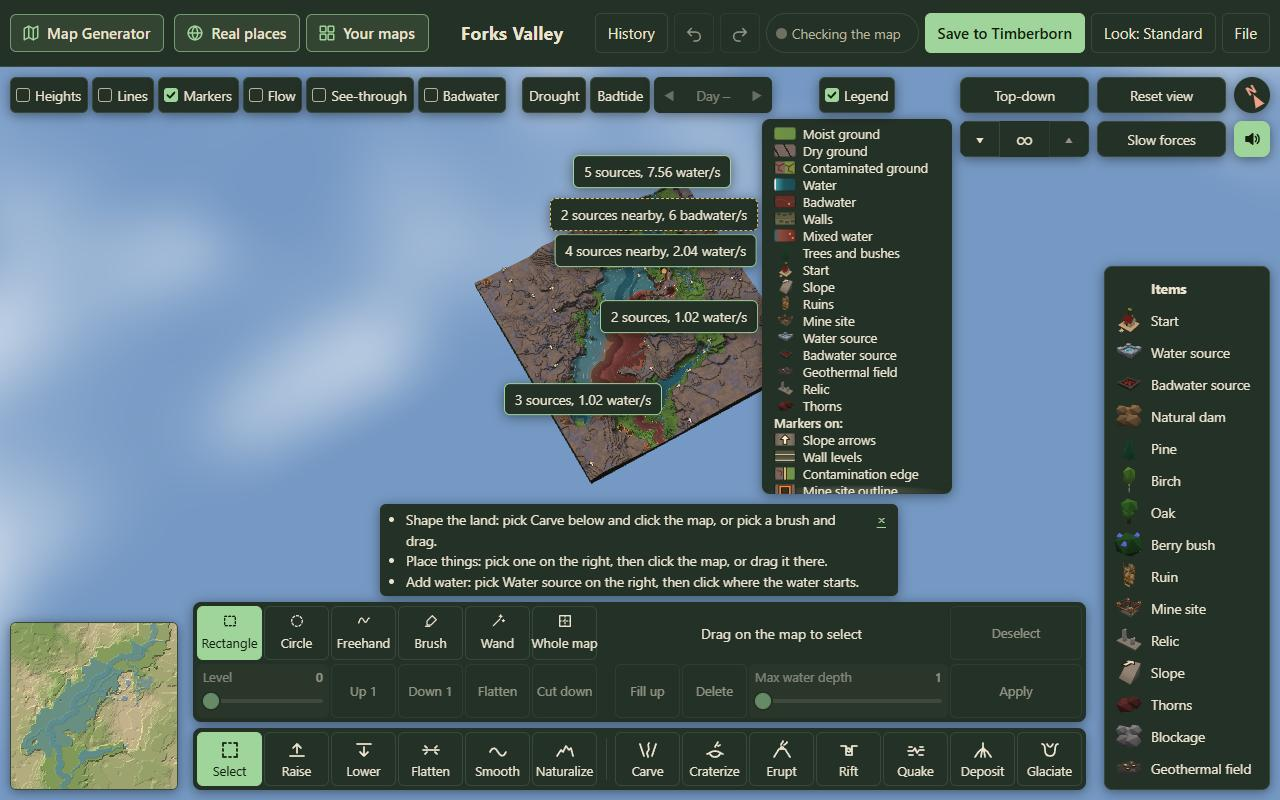
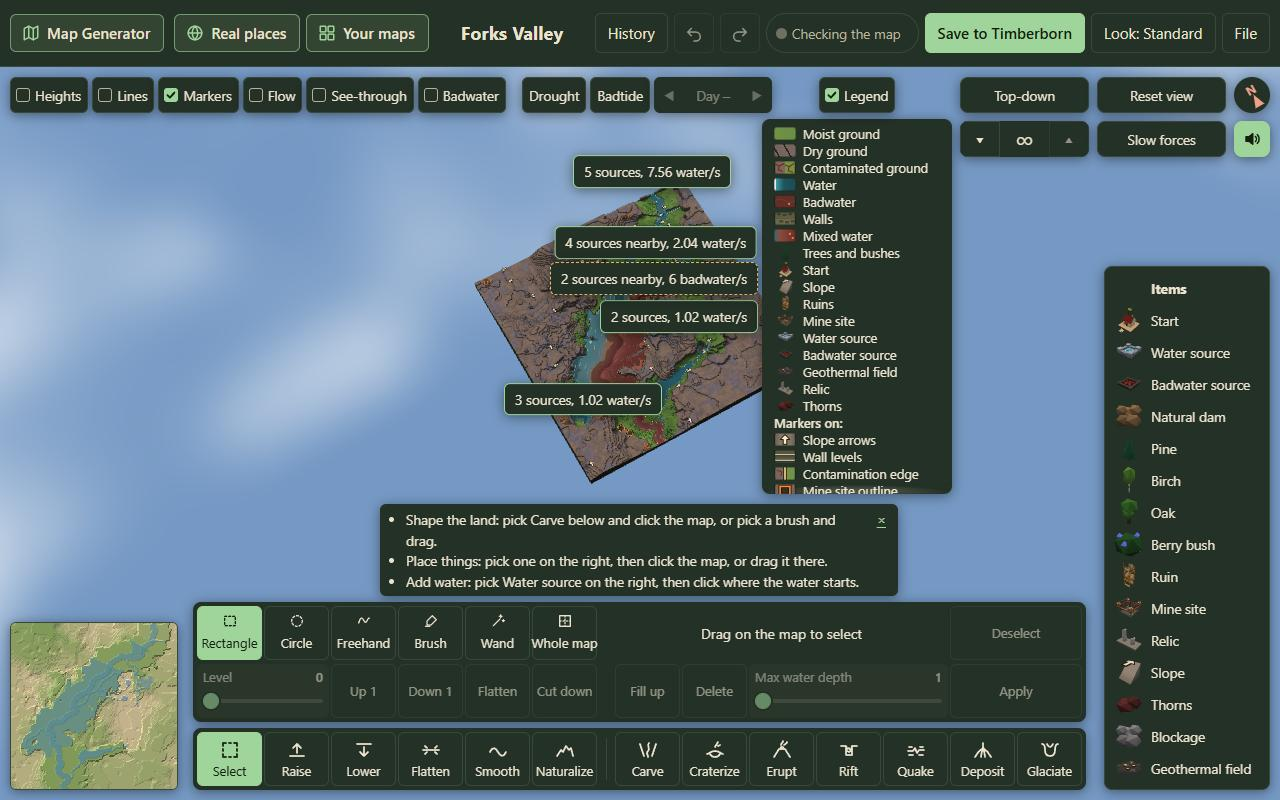
Polish: labels return to their own spot, and no leader runs behind a label
- A label tries its own spot first, then last frame's, then a search; a moved label returns once its own spot is
  clear by a little more than it needs. A carried merge is kept only while the merged-in label's own spot is blocked.
- A moved spot is never used if its leader would cross another label or its line, or end under one (it merges instead).

Changed region(s): [[0.4062, 0.2188, 0.5938, 0.375]]

diff --git a/src/editor/sources/labelLayout.ts b/src/editor/sources/labelLayout.ts
@@ -81,6 +81,37 @@ const NEARBY = 160;
 /** Moves tried one after another when a label is in the way of something. */
 const DEPTH = 4;
 
+type Seg = [number, number, number, number];
+
+/** Whether a line crosses a box. */
+function crosses(s: Seg, r: Rect): boolean {
+  let t0 = 0;
+  let t1 = 1;
+  const dx = s[2] - s[0];
+  const dy = s[3] - s[1];
+  for (const [p, q] of [
+    [-dx, s[0] - r.x],
+    [dx, r.x + r.w - s[0]],
+    [-dy, s[1] - r.y],
+    [dy, r.y + r.h - s[1]],
+  ]) {
+    if (p === 0) {
+      if (q < 0) return false;
+    } else {
+      const t = q / p;
+      if (p < 0) t0 = Math.max(t0, t);
+      else t1 = Math.min(t1, t);
+    }
+  }
+  return t0 <= t1;
+}
+
+/** Whether two lines cross. */
+function segs(a: Seg, b: Seg): boolean {
+  const o = (x1: number, y1: number, x2: number, y2: number, x3: number, y3: number) => Math.sign((x2 - x1) * (y3 - y1) - (y2 - y1) * (x3 - x1));
+  return o(a[0], a[1], a[2], a[3], b[0], b[1]) !== o(a[0], a[1], a[2], a[3], b[2], b[3]) && o(b[0], b[1], b[2], b[3], a[0], a[1]) !== o(b[0], b[1], b[2], b[3], a[2], a[3]);
+}
+
 const rounded = (n: number) => Math.round(n * 100) / 100;
 
 function hits(a: Rect, b: Rect, gap: number): boolean {
@@ -119,12 +150,38 @@ function absorb(keep: Item, victim: Item, byId: Map<number, Item>) {
 
 /** Lay the labels out. The same input always gives the same output. */
 export function layoutLabels(labels: readonly LabelIn[], env: LayoutEnv): LabelOut[] {
+  // the merges of the last frame (who went into whom) stay while they still hold: the two are alike and near, and the
+  // merged-in label's own spot is still blocked (a crowd that has cleared lets it go back to its own spot)
+  const carried = new Map<number, number>();
+  const first = new Map(labels.map((l) => [l.id, l]));
+  for (const l of labels) {
+    const keep = l.prev?.into != null ? first.get(l.prev.into) : undefined;
+    if (keep && keep.id !== l.id && !l.target && !keep.target && l.bad === keep.bad && l.feeding === keep.feeding && Math.hypot(l.ax - keep.ax, l.ay - keep.ay) <= NEARBY) carried.set(l.id, keep.id);
+  }
+  for (;;) {
+    const out = lay(labels, env, carried);
+    // (a merge is let go once the label's own spot is clear by a little more than a label needs, so it does not flicker)
+    let letGo = false;
+    for (const [id] of carried) {
+      const l = first.get(id)!;
+      const w = env.width(labelWords(l.count, l.strength, l.bad), l.target || l.feeding);
+      const own: Rect = { x: l.ax - w / 2, y: l.ay - env.height * LIFT, w, h: env.height };
+      const clear = own.x >= 0 && own.y >= 0 && own.x + w <= env.bounds.w && own.y + own.h <= env.bounds.h && !env.obstacles.some((o) => hits(own, o, GAP + 6)) && !out.some((o) => !o.hidden && hits(own, o.box, GAP + 6));
+      if (clear) {
+        carried.delete(id);
+        letGo = true;
+      }
+    }
+    if (!letGo) return out;
+  }
+}
+
+function lay(labels: readonly LabelIn[], env: LayoutEnv, carried: Map<number, number>): LabelOut[] {
   const items: Item[] = labels.map((l) => ({ ...l, members: [], gone: false, into: null, boosted: false }));
   const byId = new Map(items.map((i) => [i.id, i]));
-  // the merges of the last frame stay while they still hold
   for (const it of items) {
-    const keep = it.prev?.into != null ? byId.get(it.prev.into) : undefined;
-    if (keep && keep !== it && !keep.gone && !it.gone && it.members.length === 0 && mergeable(it, keep) && apart(it, keep) <= NEARBY) absorb(keep, it, byId);
+    const keep = byId.get(carried.get(it.id) ?? NaN);
+    if (keep && !keep.gone && !it.gone && it.members.length === 0) absorb(keep, it, byId);
   }
   const stuck = new Set<number>();
   // (each step merges a label or raises one once, so it ends)
@@ -162,6 +219,8 @@ function place(items: Item[], env: LayoutEnv): { out: LabelOut[]; crowded: numbe
   const placed: Rect[] = [];
   const out = new Map<number, LabelOut>();
   const crowded: number[] = [];
+  /** The lines of the moved labels placed so far: from the source's point to the label. */
+  const leaders: Seg[] = [];
 
   for (const i of order) {
     const it = items[i];
@@ -179,18 +238,31 @@ function place(items: Item[], env: LayoutEnv): { out: LabelOut[]; crowded: numbe
     const at = (dx: number, dy: number): Rect => ({ x: natural.x + dx, y: natural.y + dy, w, h });
     type Block = { kind: "edge"; dx: number; dy: number } | { kind: "panel" | "label"; r: Rect };
     // the first thing a box is in the way of: the view's edge (as the move that brings it in), a panel or a label
-    const blocker = (b: Rect): Block | null => {
+    const blocker = (b: Rect, gap = GAP): Block | null => {
       const dx = b.x < view.x ? view.x - b.x : b.x + b.w > view.w ? view.w - (b.x + b.w) : 0;
       const dy = b.y < view.y ? view.y - b.y : b.y + b.h > view.h ? view.h - (b.y + b.h) : 0;
       if (dx || dy) return { kind: "edge", dx, dy };
-      for (const o of obstacles) if (hits(b, o, GAP)) return { kind: "panel", r: o };
-      for (const p of placed) if (hits(b, p, GAP)) return { kind: "label", r: p };
+      for (const o of obstacles) if (hits(b, o, gap)) return { kind: "panel", r: o };
+      for (const p of placed) if (hits(b, p, gap)) return { kind: "label", r: p };
       return null;
     };
+    // a spot is fit when its box (and the line to its source, if it is moved off it) is clear of the other labels and
+    // their lines, and no other label's source lies under it or this one's under another label
+    const fit = (dx: number, dy: number): boolean => {
+      const b = at(dx, dy);
+      const line: Seg | null = Math.hypot(dx, dy) > h ? [it.ax, it.ay, Math.max(b.x, Math.min(it.ax, b.x + b.w)), Math.max(b.y, Math.min(it.ay, b.y + b.h))] : null;
+      if (leaders.some((l) => inside(b, l[0], l[1]) || crosses(l, b))) return false;
+      if (line && placed.some((q) => inside(q, line[0], line[1]) || crosses(line, q))) return false;
+      return !line || !leaders.some((l) => segs(line, l));
+    };
     // where it stood last frame, if that is still clear
+    // (its own spot first, a moved label returning to it only once it is clear by a little more than it needs; else
+    // where it stood last frame while that is still fit; else the nearest fit spot)
     let found: { dx: number; dy: number } | null = null;
     const p = it.prev;
-    if (p && Math.hypot(p.dx, p.dy) <= REACH && !blocker(at(p.dx, p.dy))) found = { dx: p.dx, dy: p.dy };
+    const moved = !!p && (p.dx !== 0 || p.dy !== 0);
+    if (!blocker(natural, moved ? GAP + 6 : GAP) && fit(0, 0)) found = { dx: 0, dy: 0 };
+    else if (p && moved && Math.hypot(p.dx, p.dy) <= REACH && !blocker(at(p.dx, p.dy)) && fit(p.dx, p.dy)) found = { dx: p.dx, dy: p.dy };
     // else the nearest free spot: from where the label stands, each move that clears what is in its way, a few deep,
     // the moves off other labels adding up to a label height or two at most
     if (!found) {
@@ -204,7 +276,7 @@ function place(items: Item[], env: LayoutEnv): { out: LabelOut[]; crowded: numbe
         const hit = blocker(b);
         if (!hit) {
           const d = Math.hypot(dx, dy);
-          if (d < nearest) {
+          if (d < nearest && fit(dx, dy)) {
             nearest = d;
             found = { dx, dy };
           }
@@ -235,6 +307,7 @@ function place(items: Item[], env: LayoutEnv): { out: LabelOut[]; crowded: numbe
     }
     const box = at(f.dx, f.dy);
     placed.push(box);
+    if (Math.hypot(f.dx, f.dy) > h) leaders.push([it.ax, it.ay, Math.max(box.x, Math.min(it.ax, box.x + box.w)), Math.max(box.y, Math.min(it.ay, box.y + box.h))]);
     out.set(i, { ...base, dx: f.dx, dy: f.dy, x: it.ax + f.dx, y: it.ay + f.dy, box });
   }
   // the absorbed labels are drawn nowhere

diff --git a/tests/unit/sourceLabelLayout.test.ts b/tests/unit/sourceLabelLayout.test.ts
@@ -126,4 +126,47 @@ describe("the sources' labels", () => {
       expect(p.map((o) => [o.into, o.hidden, o.words])).toEqual(merges);
     }
   });
+
+  it("puts a moved label back at its own spot, and lets a merge go, once the crowd has cleared", () => {
+    const withPrev = (ls: LabelIn[], prev: LabelOut[] | null): LabelIn[] =>
+      ls.map((l) => {
+        const o = prev?.find((q) => q.id === l.id);
+        return { ...l, prev: o ? { dx: o.dx, dy: o.dy, into: o.into } : null };
+      });
+    // two labels, one nudged off the other; then pulled 300px apart
+    const near = layoutLabels(withPrev([label(0, 300, 300), label(1, 300, 300)], null), env());
+    expect(near.some((o) => o.dx !== 0 || o.dy !== 0)).toBe(true);
+    const far = layoutLabels(withPrev([label(0, 300, 300), label(1, 600, 300)], near), env());
+    expect(far.map((o) => [o.dx, o.dy])).toEqual([[0, 0], [0, 0]]);
+    // a crowd of eight merged into a few labels; then spread out to about 150px apart
+    const tight = layoutLabels(withPrev(Array.from({ length: 8 }, (_, i) => label(i, 400 + (i % 2), 60 + (i % 3), { strength: 0.5 })), null), env([], 1700, 110));
+    expect(drawn(tight).length).toBeLessThan(8);
+    const spread = layoutLabels(withPrev(Array.from({ length: 8 }, (_, i) => label(i, 100 + i * 150, 60, { strength: 0.5 })), tight), env([], 1700, 110));
+    expect(drawn(spread)).toHaveLength(8);
+    expect(spread.every((o) => o.dx === 0 && o.dy === 0 && o.into === null)).toBe(true);
+  });
+
+  it("never runs a moved label's line behind another label, or ends it under one", () => {
+    // (a line's points, tested against the other labels' boxes)
+    const through = (o: LabelOut, r: Rect) => {
+      const x2 = Math.max(o.box.x, Math.min(o.ax, o.box.x + o.box.w));
+      const y2 = Math.max(o.box.y, Math.min(o.ay, o.box.y + o.box.h));
+      for (let t = 0; t <= 1; t += 0.02) {
+        const x = o.ax + (x2 - o.ax) * t;
+        const y = o.ay + (y2 - o.ay) * t;
+        if (x > r.x && x < r.x + r.w && y > r.y && y < r.y + r.h) return true;
+      }
+      return false;
+    };
+    let seed = 7;
+    const rnd = () => (seed = (seed * 16807) % 2147483647) / 2147483647;
+    for (let round = 0; round < 40; round++) {
+      const ls = Array.from({ length: 4 + Math.floor(rnd() * 8) }, (_, i) => label(i, 60 + rnd() * 280, 50 + rnd() * 90, { bad: rnd() < 0.3, strength: Math.round(rnd() * 300) / 100 }));
+      const out = drawn(layoutLabels(ls, env([], 420, 180)));
+      for (const o of out) {
+        if (Math.hypot(o.dx, o.dy) <= 24) continue;
+        for (const q of out) if (q !== o) expect(through(o, q.box), `round ${round}: the line of ${o.words} behind ${q.words}`).toBe(false);
+      }
+    }
+  });
 });
